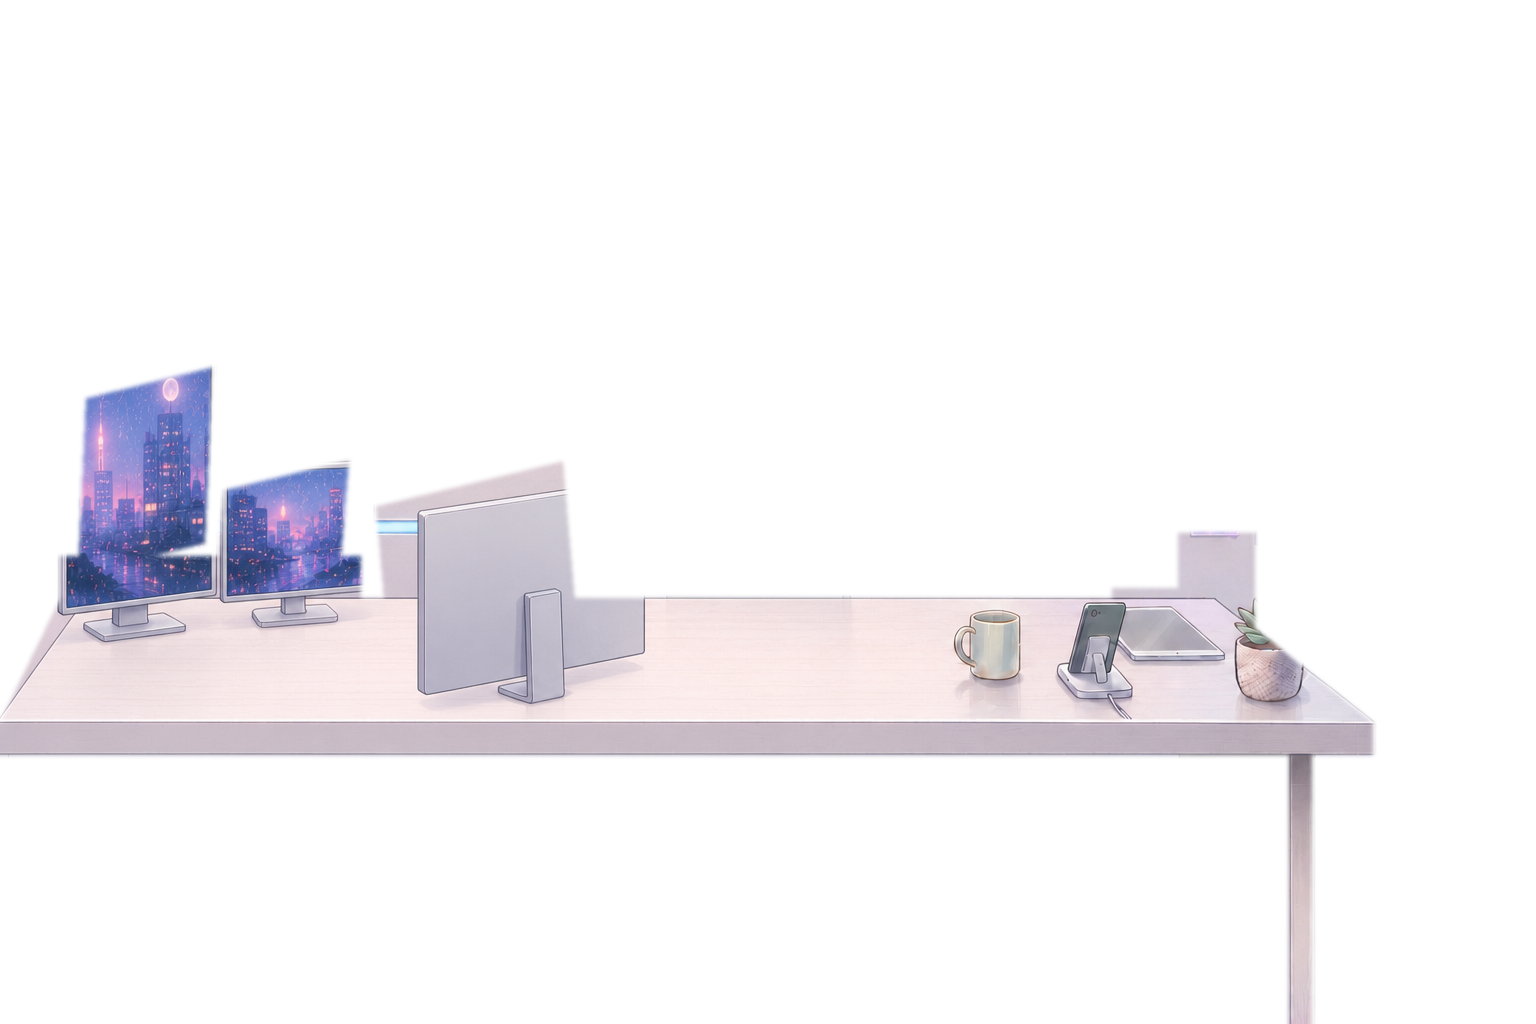
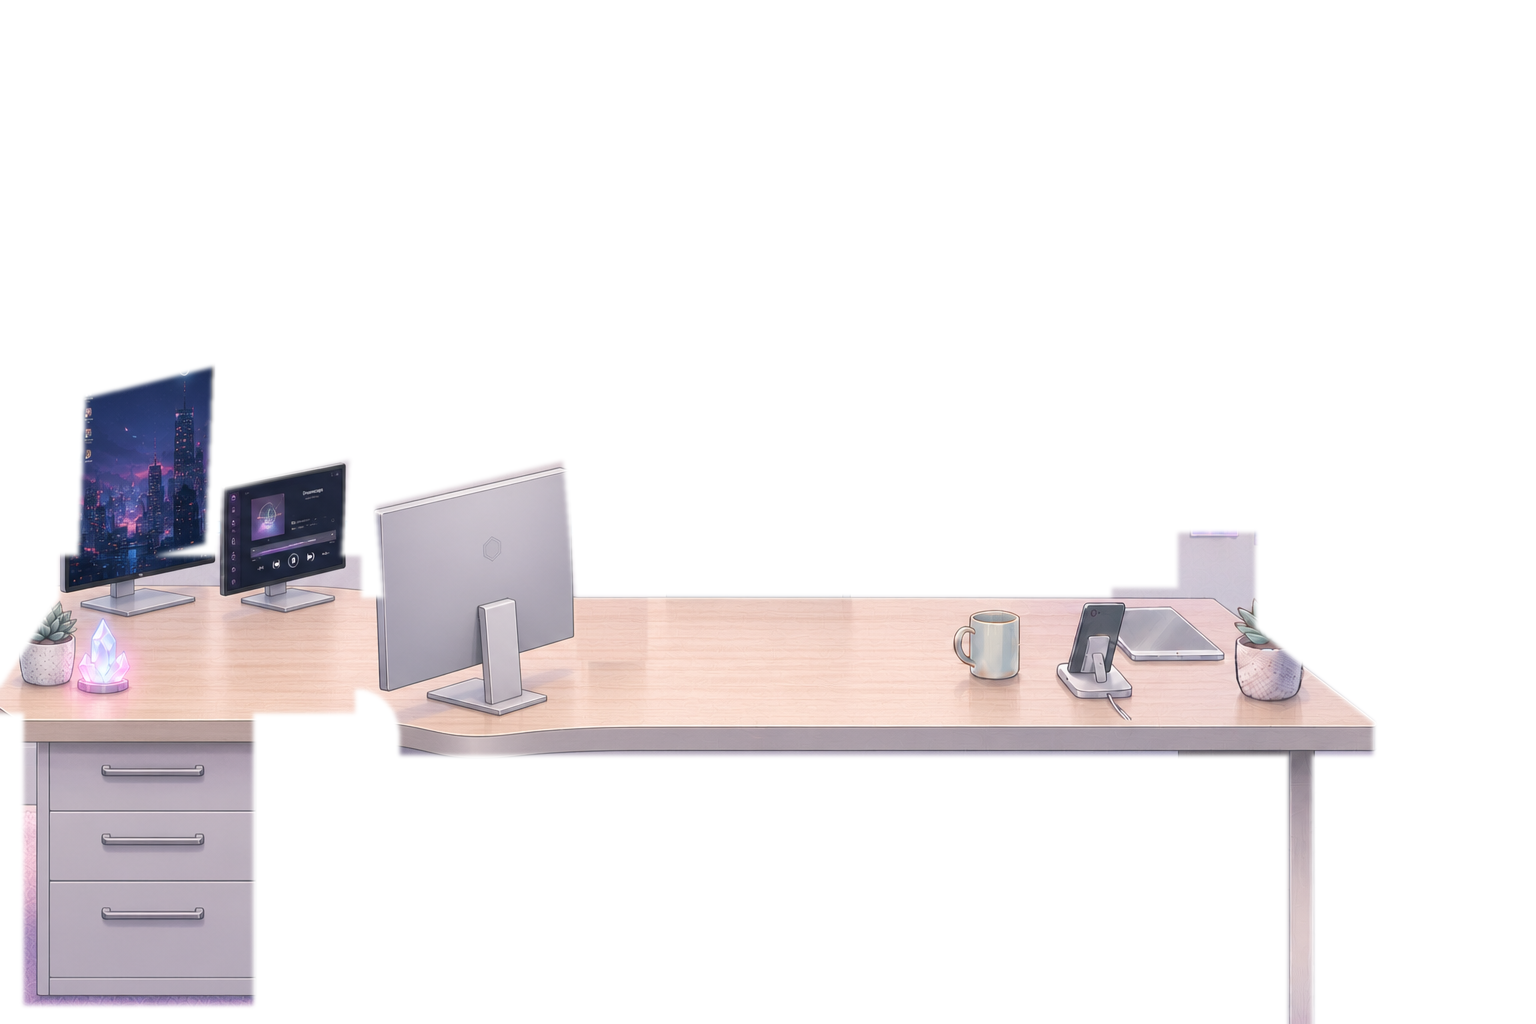
照参考效果图重排：左翼退一截做圆角、翼下三抽屉柜、桌面改暖木色
用户给了一张 ChatGPT 出的效果图当目标。对着量了一遍，差这几样：

- 左翼前沿比主台面退后 34px（688 vs 722），接口走圆角，不再是一条直沿
- 左翼下面补一个三抽屉柜（参考图里左下角最重的一块）
- 桌面从冷灰白改成暖色浅木，墙/地板/地毯的色调不动
- 左翼两块屏的内容改成电脑桌面和播放器界面，不再是单纯的城市画
- 左翼前角摆回多肉和小水晶

朝向那两条本来就对：侧屏朝镜头看得见内容、大屏机背朝我们。

重绘时桌上冒出过一块多余的立板（引导图里没抹干净的残留被当成家具画了），
右缘 645 已经压到键盘左缘 594；扫描窗口从 600 开到 700 才量出来，
已抹掉。MONITOR_EDGE_X 586 → 578。

判据：窗洞 1px、主桌桌沿 1px、保留清单最差相关 0.83、measure_hands ✓。

Changed region(s): [[0.0, 0.3438, 0.9062, 1.0]]

diff --git a/Scripts/blocking.py b/Scripts/blocking.py
@@ -54,6 +54,13 @@ MAIN_NEAR = (232, 1372)
 # 可以从 574 一路长到 368。
 ARM_FAR_Y = 556                              # 短桌的远边（退到头，离地平线 8px）
 ARM_X = (60, 360)                            # 短桌在远边上的左右端
+# 左翼的前沿比主台面**退后**一截（参考图量出来约 35px），接口做圆角。
+# 齐平的话整条前沿是一根直线，L 形就读不出来了。
+WING_NEAR_Y = 688                            # 左翼前沿
+WING_STEP_X = 400                            # 前沿在这一列上台阶
+WING_R = 46                                  # 台阶的圆角半径
+# 左翼下面的三抽屉柜。参考图里它是左下角最重的一块，没有它左下角是空的
+DRAWER = (24, 700, 252, 1004)                # x0, y0, x1, y1
 # 台面左端。**MAIN_FAR/MAIN_NEAR 只定道具坐标系**（`desk_point` 在它俩之间
 # 插值），动它等于把键盘、杯子、平板全挪一遍，所以左端另开两个常数。
 # 左端要跟臂的左端对齐，不然臂会悬在主台面外面、看着是块浮空的板。
@@ -124,19 +131,34 @@ def desk_surface():
     臂朝里退，所以它整段都在主台面远边**之上**，读起来是"她左手边那段
     台子更深一点"——工位的回折台就是这个样子。
     """
-    return [(ARM_X[0], ARM_FAR_Y), (ARM_X[1], ARM_FAR_Y),
-            (ARM_X[1], MAIN_FAR_Y), (MAIN_FAR[1], MAIN_FAR_Y),
-            (MAIN_NEAR[1], MAIN_NEAR_Y), (EXT_NEAR_X, MAIN_NEAR_Y),
-            (EXT_FAR_X, MAIN_FAR_Y)]
+    import math
+    # 前沿上那个台阶做成圆角：左翼前沿 688 → 主台面前沿 722，
+    # 在 WING_STEP_X 附近走四分之一圆。直角的话看着像两张桌子拼错了。
+    arc = [(WING_STEP_X - WING_R + WING_R * math.sin(t * math.pi / 2),
+            WING_NEAR_Y + WING_R * (1 - math.cos(t * math.pi / 2)))
+           for t in [i / 8 for i in range(9)]]
+    return ([(ARM_X[0], ARM_FAR_Y), (ARM_X[1], ARM_FAR_Y),
+             (ARM_X[1], MAIN_FAR_Y), (MAIN_FAR[1], MAIN_FAR_Y),
+             (MAIN_NEAR[1], MAIN_NEAR_Y), (WING_STEP_X, MAIN_NEAR_Y)]
+            + arc[::-1]
+            + [(EXT_NEAR_X, WING_NEAR_Y), (EXT_FAR_X, MAIN_FAR_Y)])
 
 
 def draw_desk(d, top, lip, leg):
     d.polygon(desk_surface(), fill=top)
-    # 桌沿厚度只画主台面那条近边。臂和主台面是同高的两段台子拼在一起，
-    # 中间那道只是拼缝，不是沿
-    d.polygon([(EXT_NEAR_X, MAIN_NEAR_Y), (MAIN_NEAR[1], MAIN_NEAR_Y),
+    # 桌沿厚度分两段：主台面那条在 722，左翼那条退在 688、也薄一点
+    # （它离镜头更远）。臂和主台面是同高的两段台子，中间只是拼缝、不是沿
+    d.polygon([(WING_STEP_X, MAIN_NEAR_Y), (MAIN_NEAR[1], MAIN_NEAR_Y),
                (MAIN_NEAR[1], MAIN_NEAR_Y + DESK_LIP),
-               (EXT_NEAR_X, MAIN_NEAR_Y + DESK_LIP)], fill=lip)
+               (WING_STEP_X, MAIN_NEAR_Y + DESK_LIP)], fill=lip)
+    d.polygon([(EXT_NEAR_X, WING_NEAR_Y), (WING_STEP_X - WING_R, WING_NEAR_Y),
+               (WING_STEP_X - WING_R, WING_NEAR_Y + DESK_LIP * 3 // 4),
+               (EXT_NEAR_X, WING_NEAR_Y + DESK_LIP * 3 // 4)], fill=lip)
+    # 左翼下面的三抽屉柜
+    d.rectangle(DRAWER, fill=leg)
+    for i in range(3):
+        y = DRAWER[1] + 40 + i * 88
+        d.rectangle([DRAWER[0] + 34, y, DRAWER[2] - 34, y + 12], fill=lip)
     # 前腿。桌下必须留空——能看见她的腿是这版构图的全部意义。
     for x in LEG_X:
         d.rectangle([x - LEG_W // 2, MAIN_NEAR_Y + DESK_LIP, x + LEG_W // 2, H], fill=leg)

diff --git a/Blender/measure_hands.py b/Blender/measure_hands.py
@@ -48,12 +48,14 @@ VRM = sys.argv[-1] if sys.argv[-1].endswith(".vrm") else "Snozzy.vrm"
 # **别用"梯度最大的那一列"**——那报的是"谁最强"，附近的东西一改冠军就换人，
 # 显示器根本没动数字也会跳（第 48 条）。
 #
-# 现在这一版：短桌在左边、台上两块屏幕朝镜头的屏，主台面左段一块背对镜头的
-# 大屏（第 51 条）。rows 360–700、x∈[50,600] 量出来是 583，留点余量记 586。
+# 现在这一版：照参考效果图重排——L 形工位，左翼前沿退一截做圆角、翼下三抽屉柜，
+# 翼上两块屏幕朝镜头的屏，主台面左段一块背对镜头的大屏（第 51 条）。
+# rows 360–700、x∈[50,700] 量出来是 573，留点余量记 578。
 #
-# **这个数已经贴到键盘左缘（594）了，只剩 11 像素余量。** 再往右挪屏幕
-# 就会和键盘打架——改重绘图时这一条要先看。
-MONITOR_EDGE_X = 586
+# **扫描窗口要开够宽。** 这一版重绘时桌上冒出过一块多余的立板，右缘在 645，
+# 我一开始只扫到 x=600，量出来 589 一路绿灯——那块板其实已经压到键盘上了
+# （键盘左缘 594）。窗口开到 700 才看见。
+MONITOR_EDGE_X = 578
 
 
 def measure(press=0.0, side_first="L"):

diff --git a/HANDOFF.md b/HANDOFF.md
@@ -799,6 +799,21 @@ x=599），她坐在内转角，这才读得出来。
 三张全报"越界"。要量的是**那个具体的量**（显示器右缘按第 48 条的量法），
 不是"哪里变了"。
 
+**53. 引导图里的任何残留，重绘都会当成家具给你画出来。**
+我上一版的引导图在 x 592–620 留了一小条没抹干净的旧显示器边（当时看见了，
+觉得"就一小条"没管）。codex 把它画成了一块**立在桌上的灰板**，
+右缘到 645——**压过键盘左缘 594**，键盘会穿进去。
+
+而且判据差点没抓住：`MONITOR_EDGE_X` 的扫描窗口我按上一版写的 x∈[50,600]，
+量出来 589，一路绿灯。**窗口开到 700 才看见那块板。**
+所以扫描窗口要按"这一带最右可能出现什么"来定，别按上一版的数照抄。
+
+修它的时候又踩一个：**`dewatermark.py` 的色调拟合用的是框四周一圈**，
+而这一块的左右正好是大屏和椅子的深色轮廓，拟合被带跑，补出来一块**粉方块**
+（比原来那块灰板还显眼）。改成只用**上下两条干净的墙／桌面**各量一个偏移、
+按行线性插过去就对了。**上面那条取样带还要避开品红矩形**——
+第一次取到了 428–464，其中一半是品红，量出来绿通道差 −108，补完整块发绿。
+
 ## 四、验证纪律
 
 这个项目里"看着对"和"真的对"经常不是一回事，所以**把主观的东西做成可测的**：
